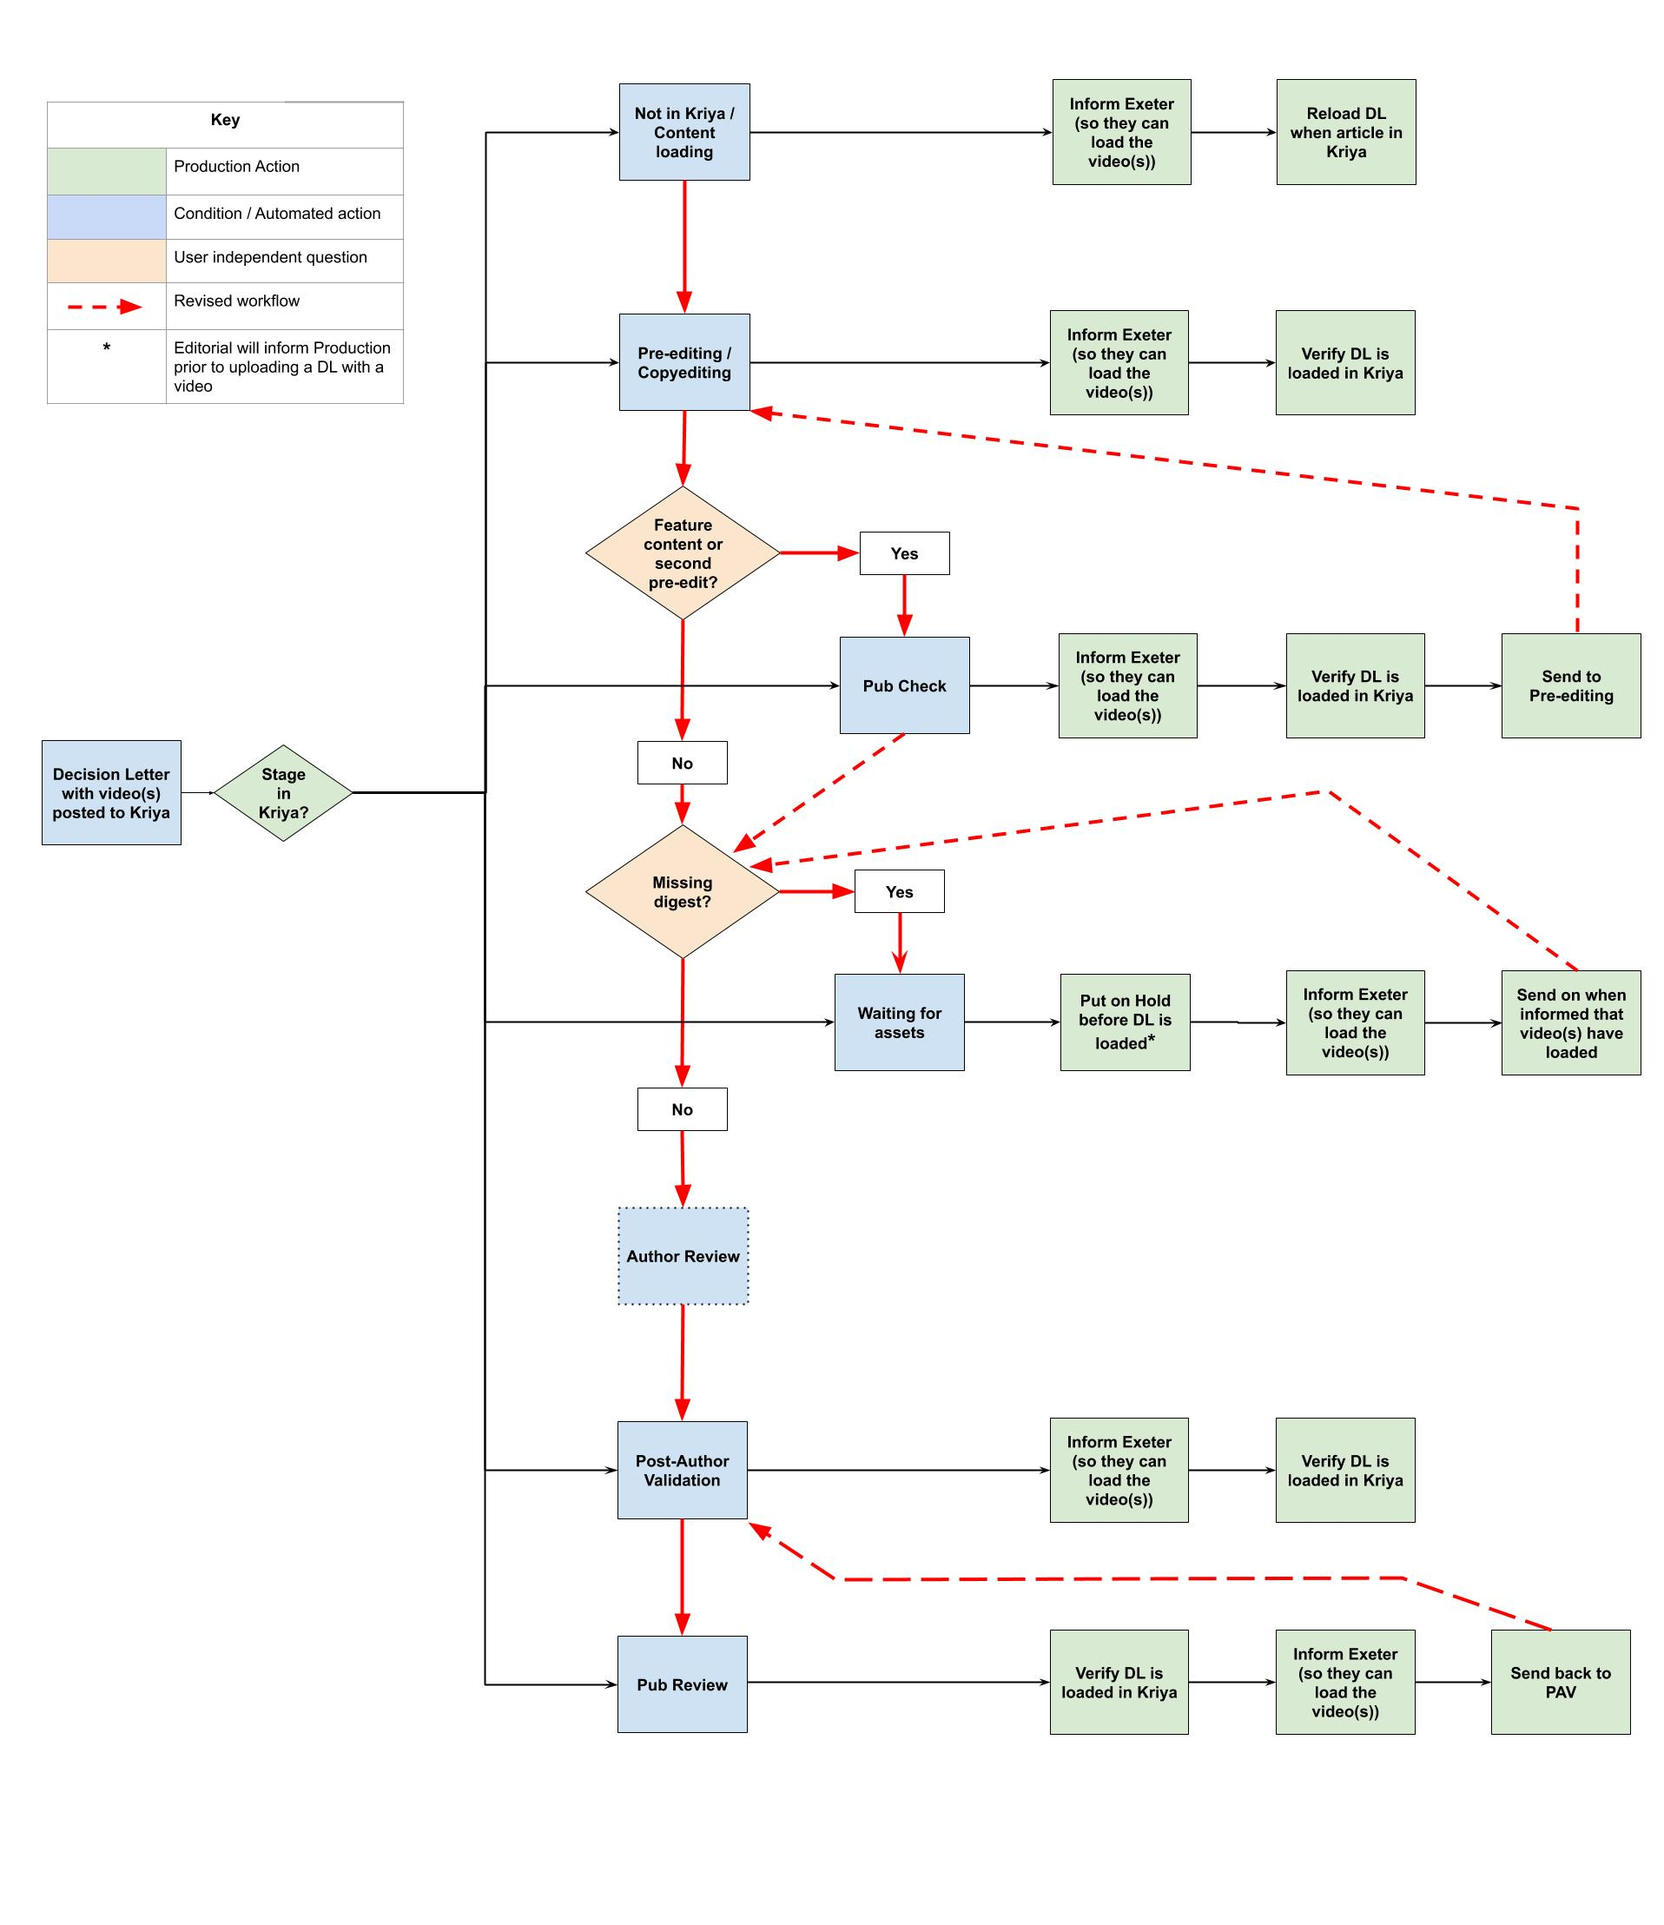
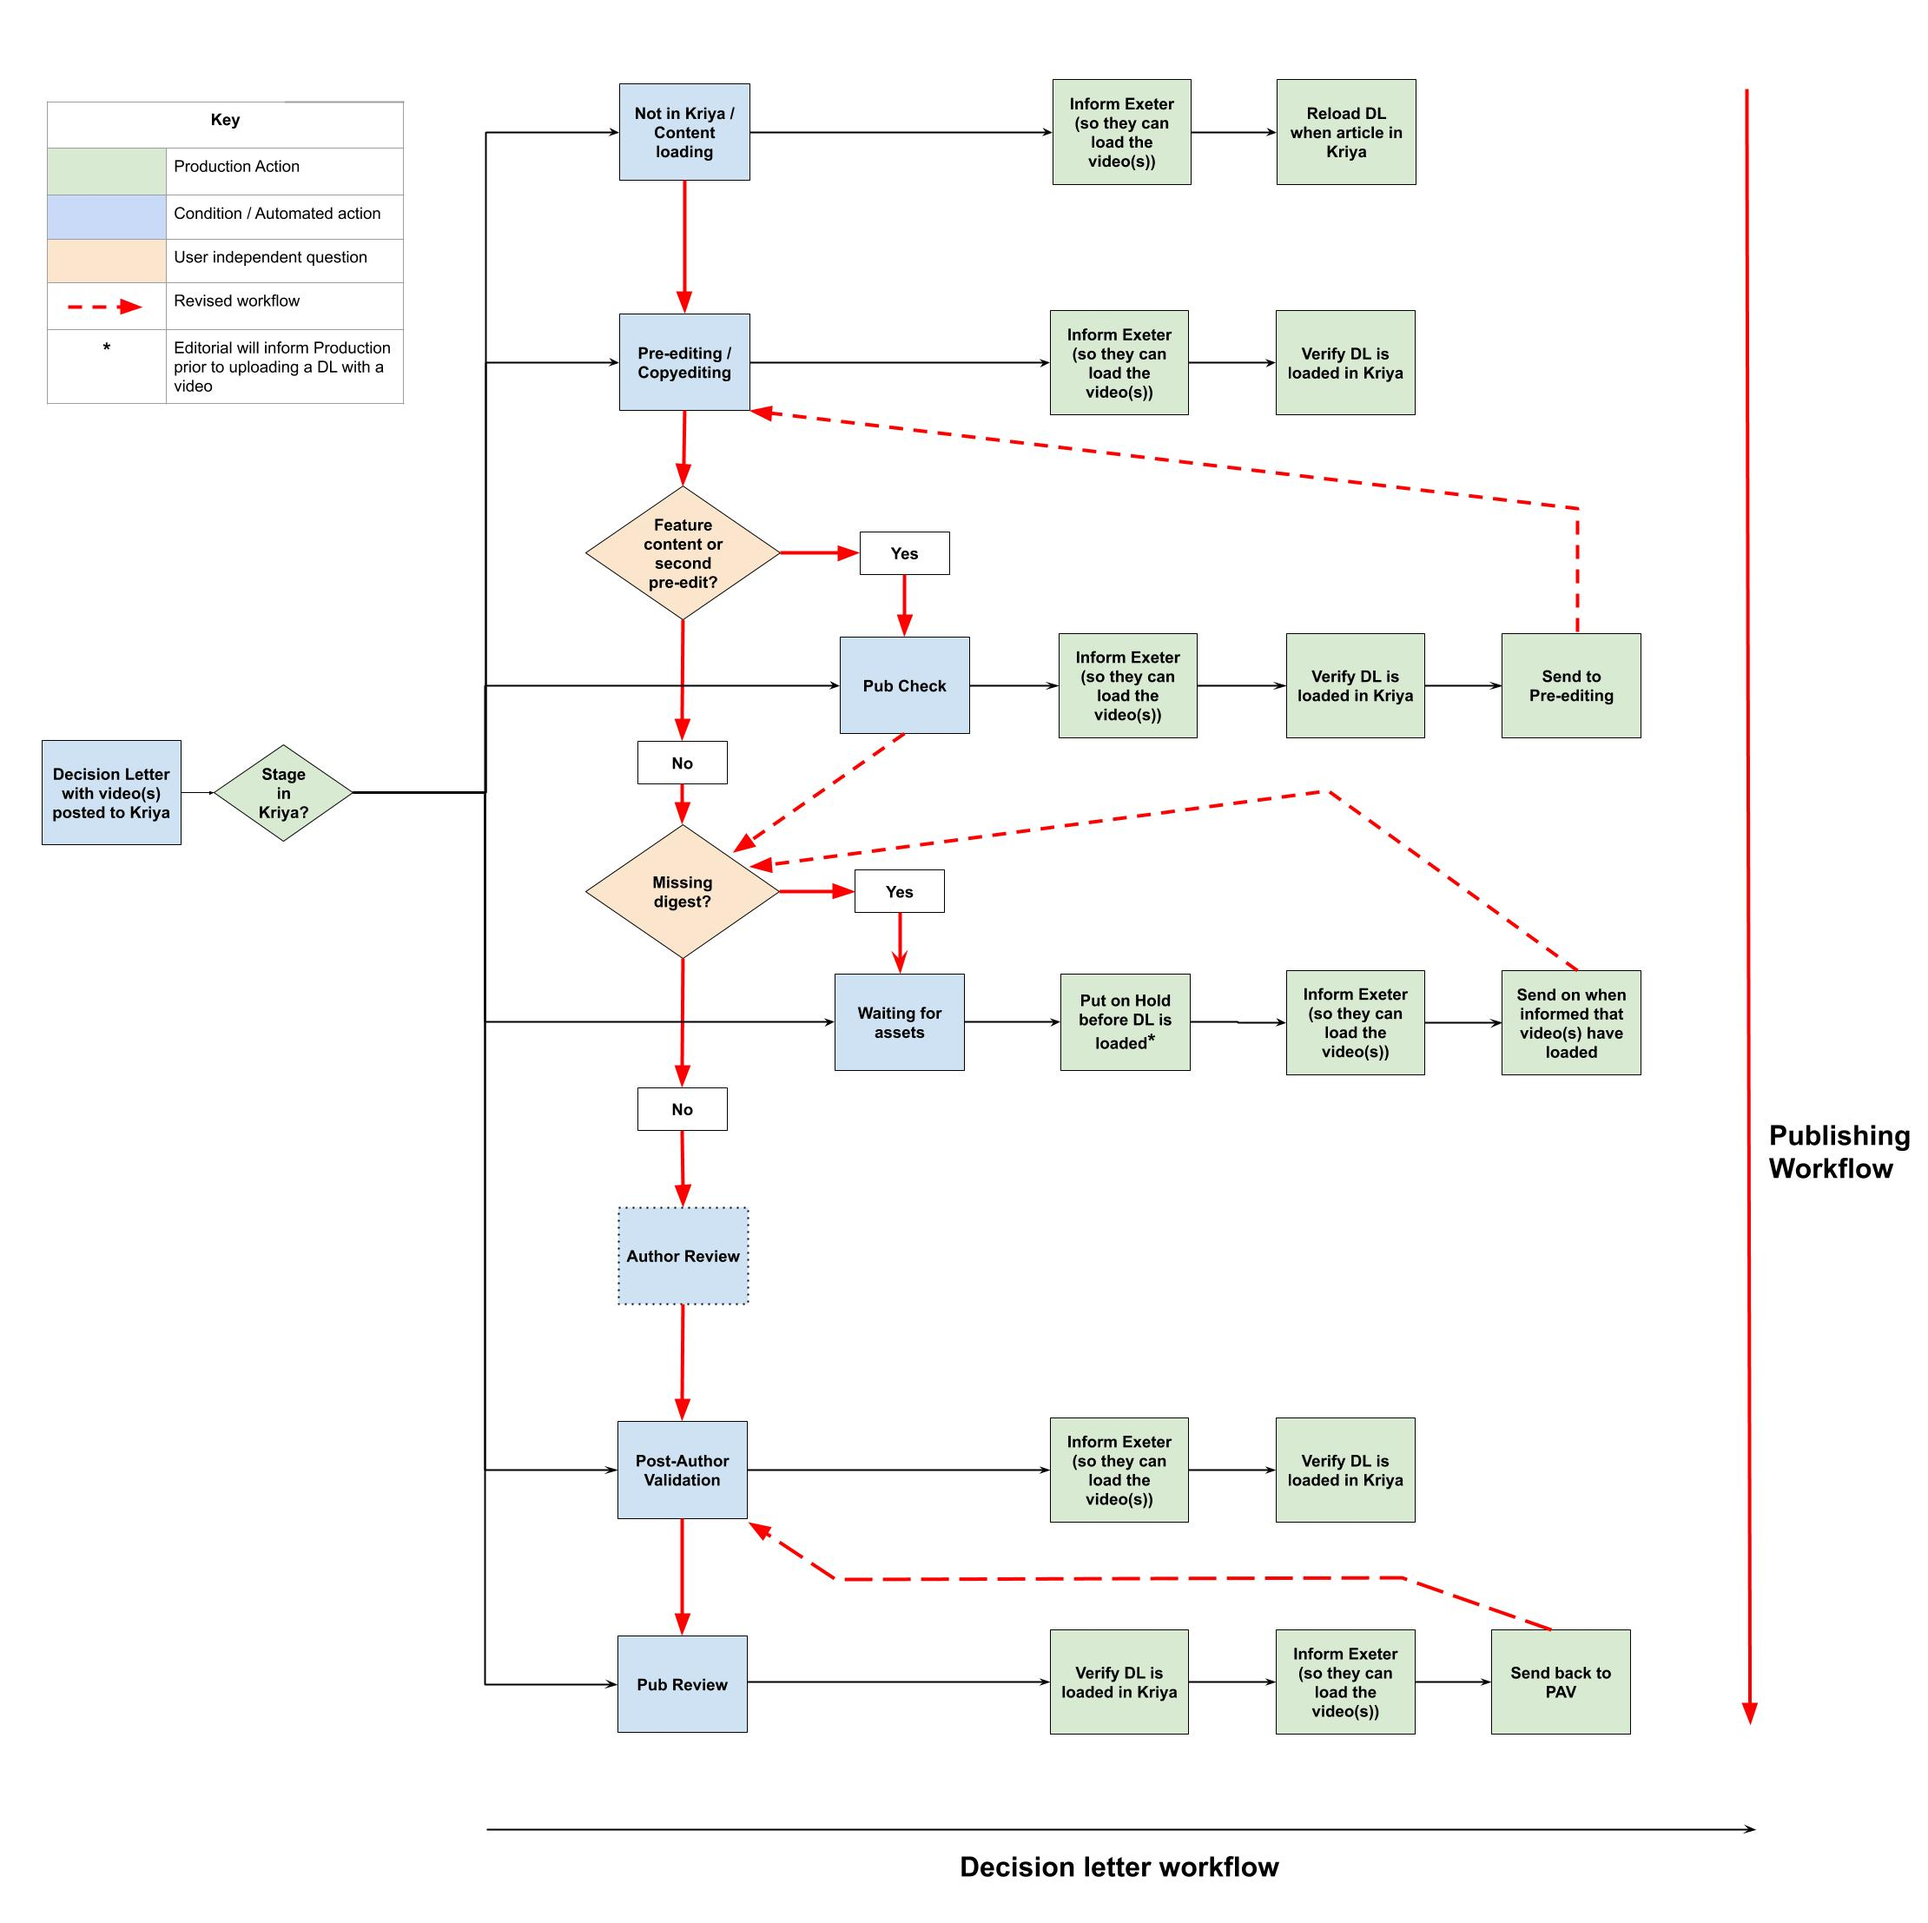
GitBook: [master] one page and one asset modified

diff --git a/article-details/content/decision-letters-and-author-responses.md b/article-details/content/decision-letters-and-author-responses.md
@@ -72,11 +72,9 @@ eLife Editorial will inform eLife Production prior to uploading a Decision lette
 
 See below for the workflow:
 
-![](../../.gitbook/assets/video-dl-workflow.jpg)
+![https://docs.google.com/drawings/d/1mN7lHDMwa2CWaMSoR8q1xHiuvDzY3y3iOGdG9UKUVTc/edit](../../.gitbook/assets/video-dl-workflow.jpg)
 
 \[**`For review`** - edit the above image [**here**](https://docs.google.com/drawings/d/1mN7lHDMwa2CWaMSoR8q1xHiuvDzY3y3iOGdG9UKUVTc/edit?usp=sharing)\]
-
-
 
 ## Schematron checks
 
